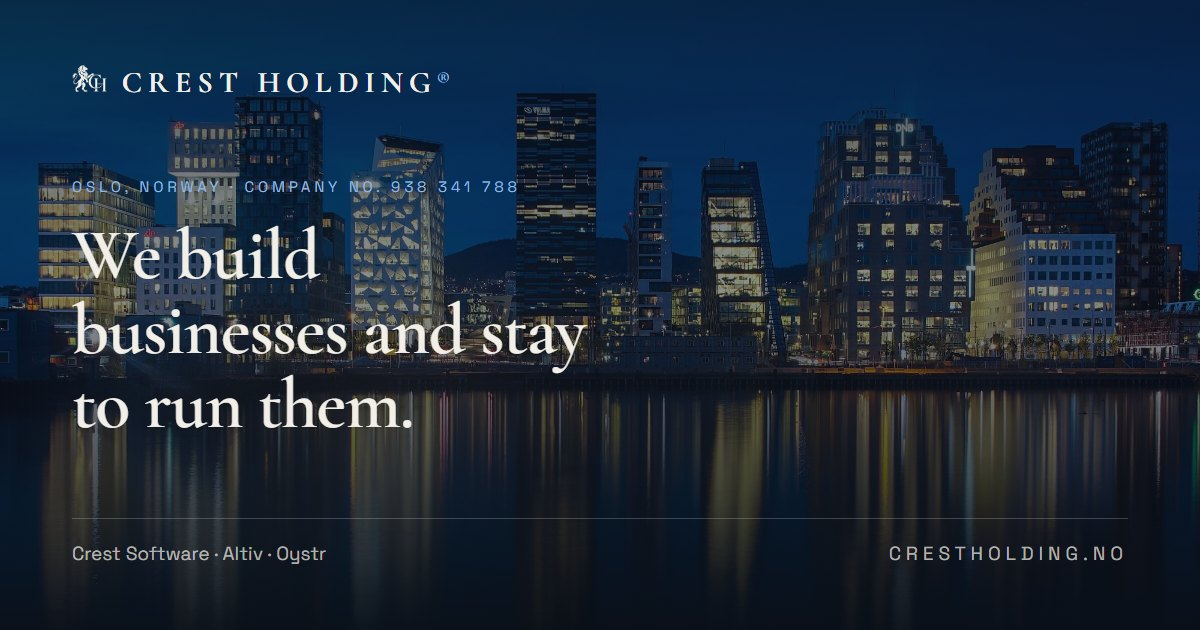
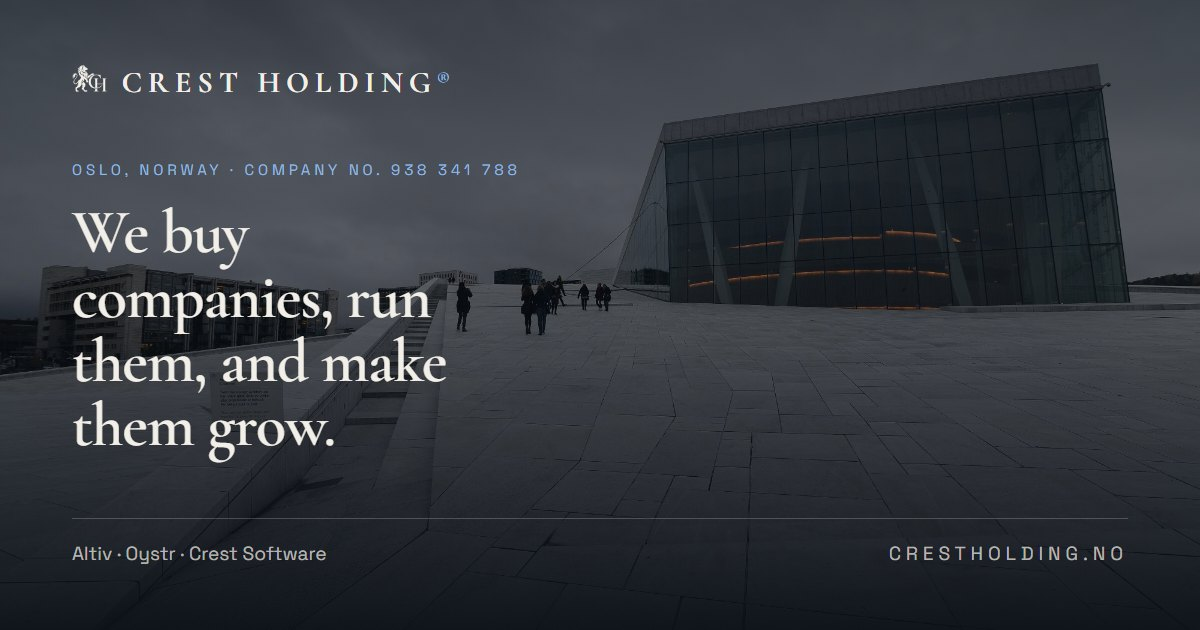
Klar for utlegging: HelPerformance ut, tittel og delingsbilde oppdatert
HelPerformance er tatt ut av porteføljen. Navnet finnes ikke i
Enhetsregisteret slik det er stavet, og eierskapet er ikke bekreftet — da skal
det ikke stå på en offentlig side. Kommentaren i koden sier hva som må på plass
før det kan inn igjen.

Tittel, beskrivelse og delingsbilde sier nå det samme som overskriften på
siden, og bildet er byttet til operataket.

diff --git a/app/page.tsx b/app/page.tsx
@@ -3,10 +3,10 @@ import HoldingSide from "@/components/HoldingSide";
 import { selskap } from "@/lib/selskap";
 
 const beskrivelse =
-  "Crest Holding AS is a Norwegian company in Oslo. We start businesses, build them properly, and stay on as the ones who run them.";
+  "Crest Holding AS acquires profitable Norwegian companies. Most we keep and operate, and the annual profit is the return.";
 
 export const metadata: Metadata = {
-  title: `${selskap.fulltNavn} — we build businesses and stay to run them`,
+  title: `${selskap.fulltNavn} — we buy companies, run them, and make them grow`,
   description: beskrivelse,
   keywords:
     "Crest Holding, holding company Oslo, Norwegian holding company, Crest Software, Altiv, Oystr, build and operate businesses",
@@ -14,16 +14,16 @@ export const metadata: Metadata = {
   openGraph: {
     type: "website",
     siteName: selskap.fulltNavn,
-    title: `${selskap.fulltNavn} — we build businesses and stay to run them`,
+    title: `${selskap.fulltNavn} — we buy companies, run them, and make them grow`,
     description: beskrivelse,
     url: `${selskap.url}/`,
     locale: "en_GB",
     images: [
       {
-        url: "/og-holding.jpg?v=1",
+        url: "/og-holding.jpg?v=2",
         width: 1200,
         height: 630,
-        alt: `${selskap.fulltNavn} — we build businesses and stay to run them`,
+        alt: `${selskap.fulltNavn} — we buy companies, run them, and make them grow`,
       },
     ],
   },
@@ -31,7 +31,7 @@ export const metadata: Metadata = {
     card: "summary_large_image",
     title: selskap.fulltNavn,
     description: beskrivelse,
-    images: ["/og-holding.jpg?v=1"],
+    images: ["/og-holding.jpg?v=2"],
   },
 };
 

diff --git a/lib/holding.ts b/lib/holding.ts
@@ -89,18 +89,10 @@ export const prinsipper = {
   ],
 };
 
-// TODO: HelPerformance mangler riktig juridisk navn, org.nr. og en setning om
-// hva de faktisk gjør. Navnet finnes ikke i Enhetsregisteret slik det er stavet
-// her (sjekket 19. oktober 2026), og eierskapet må bekreftes før siden legges
-// ut. Teksten under er en plassholder.
+// HelPerformance er tatt ut inntil juridisk navn, organisasjonsnummer og
+// eierskap er bekreftet. Ingenting skal stå her som ikke kan slås opp i
+// Enhetsregisteret.
 export const virksomheter: Virksomhet[] = [
-  {
-    navn: "HelPerformance",
-    rolle: "Operating company",
-    tekst:
-      "PLASSHOLDER — én setning om hva selskapet gjør, hvem kundene er og hvor de holder til. Skrives når Philip har bekreftet navn og eierskap.",
-    merknad: "Not published yet — awaiting confirmation.",
-  },
   {
     navn: "Altiv",
     rolle: "SaaS · CRM for sales",

diff --git a/components/HoldingSide.tsx b/components/HoldingSide.tsx
@@ -291,7 +291,7 @@ export default function HoldingSide() {
           <h2 style={OVERSKRIFT}>{meny.portefolje}</h2>
           <span style={{ ...MERKELAPP, color: "rgba(var(--ink-rgb),.5)" }}>{portefoljeMerknad}</span>
         </div>
-        <div className="hgrid2" style={{ display: "grid", gridTemplateColumns: "repeat(2, 1fr)", gap: 28 }}>
+        <div className="hgrid3" style={{ display: "grid", gridTemplateColumns: "repeat(3, 1fr)", gap: 24 }}>
           {virksomheter.map((v) => (
             <article
               key={v.navn}
